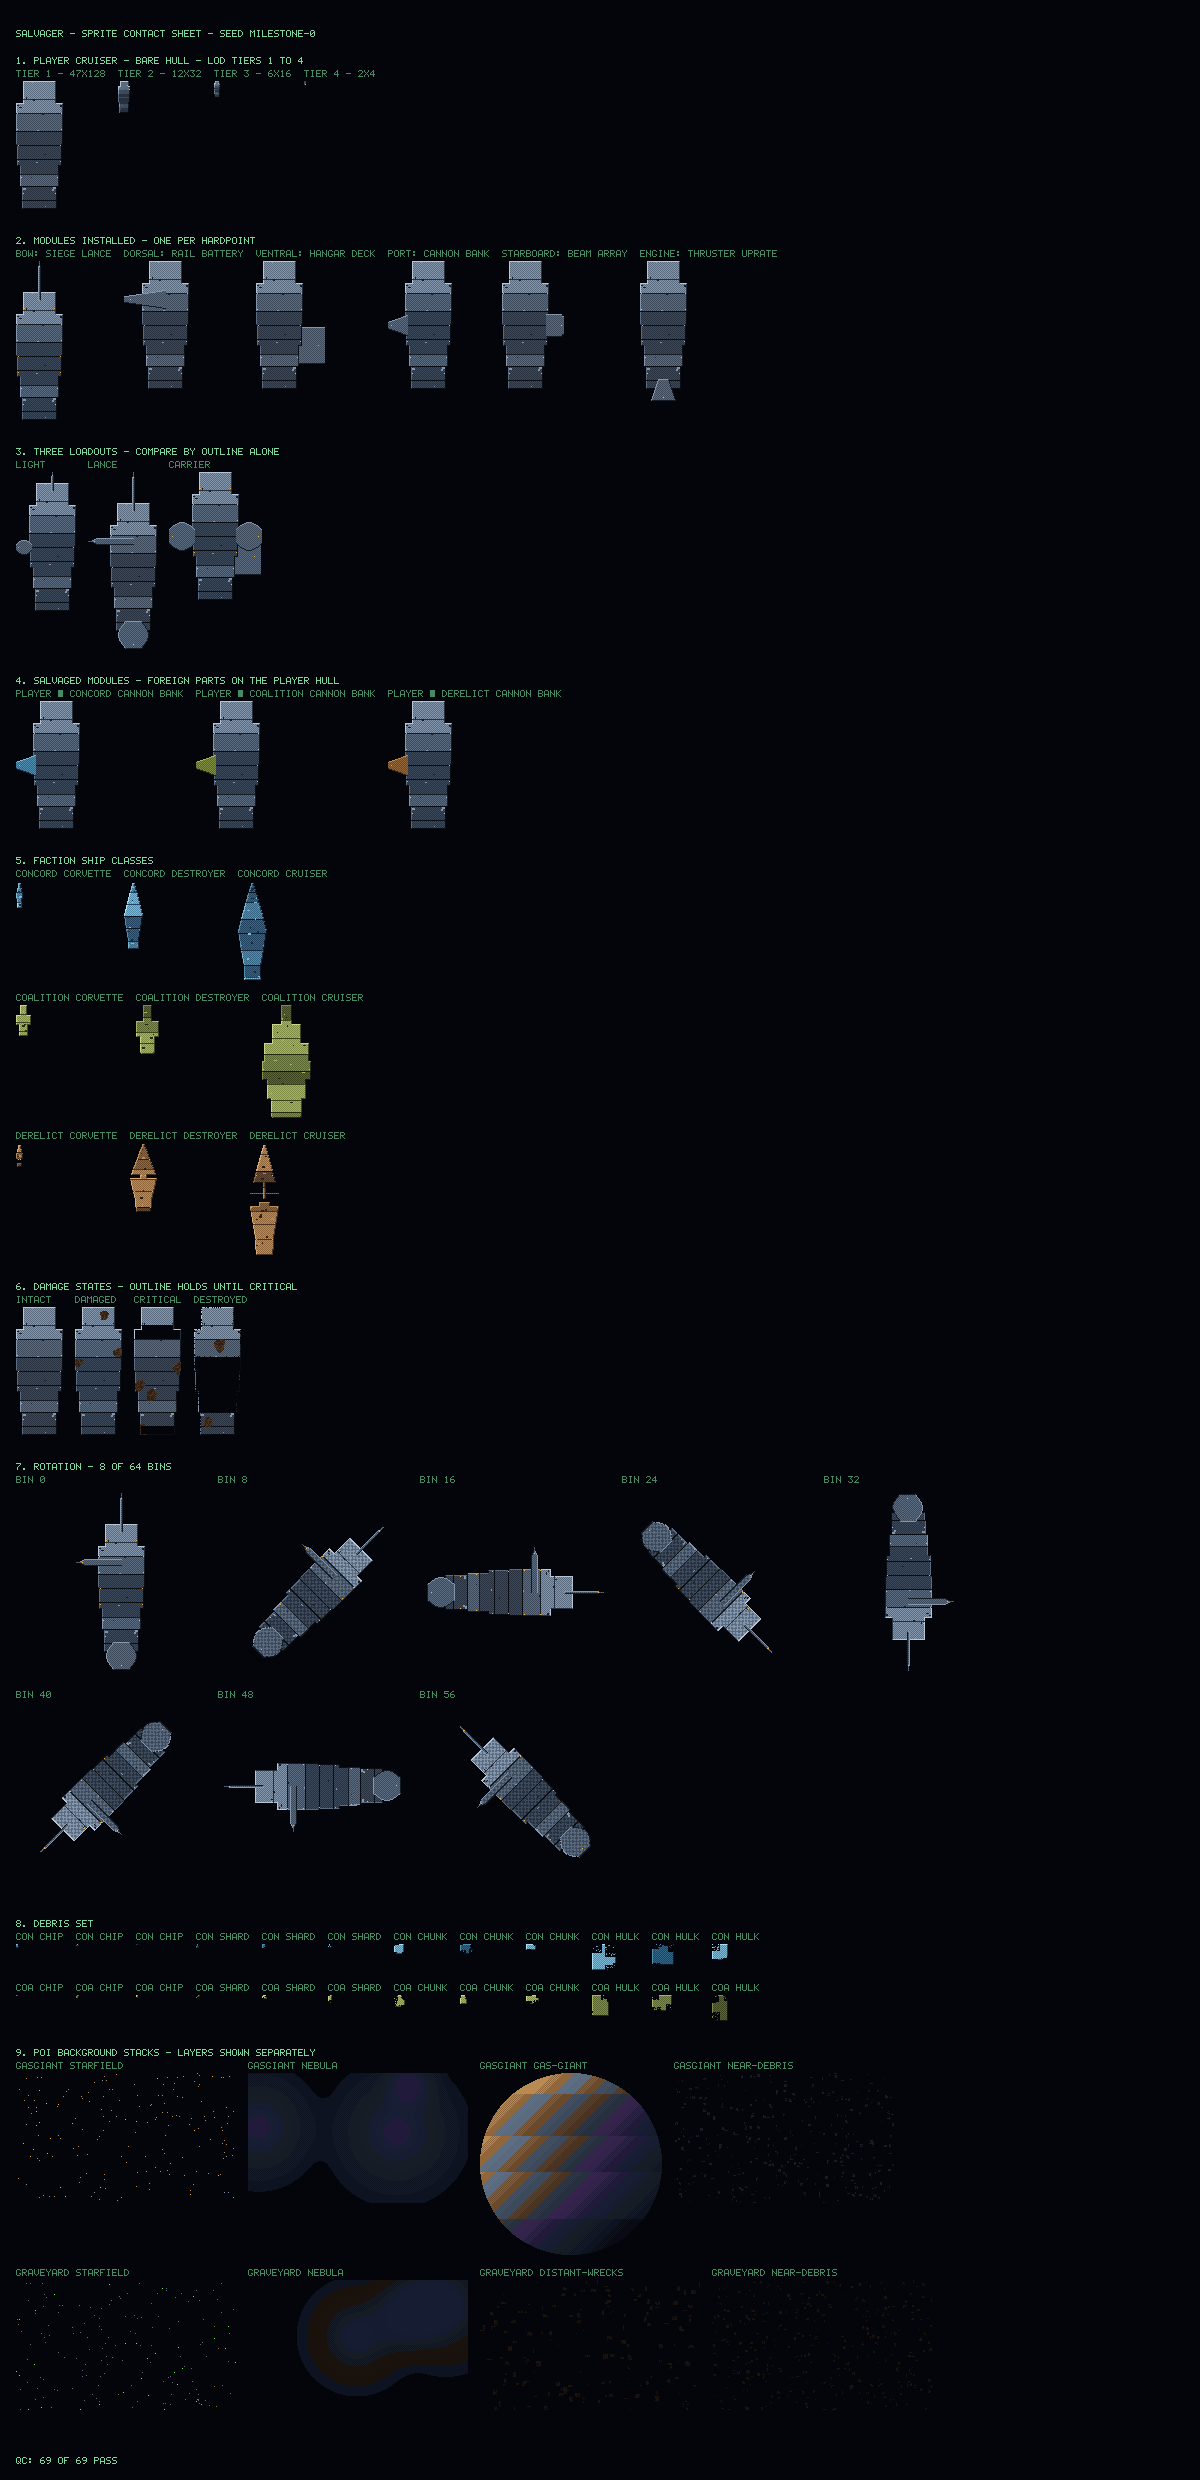
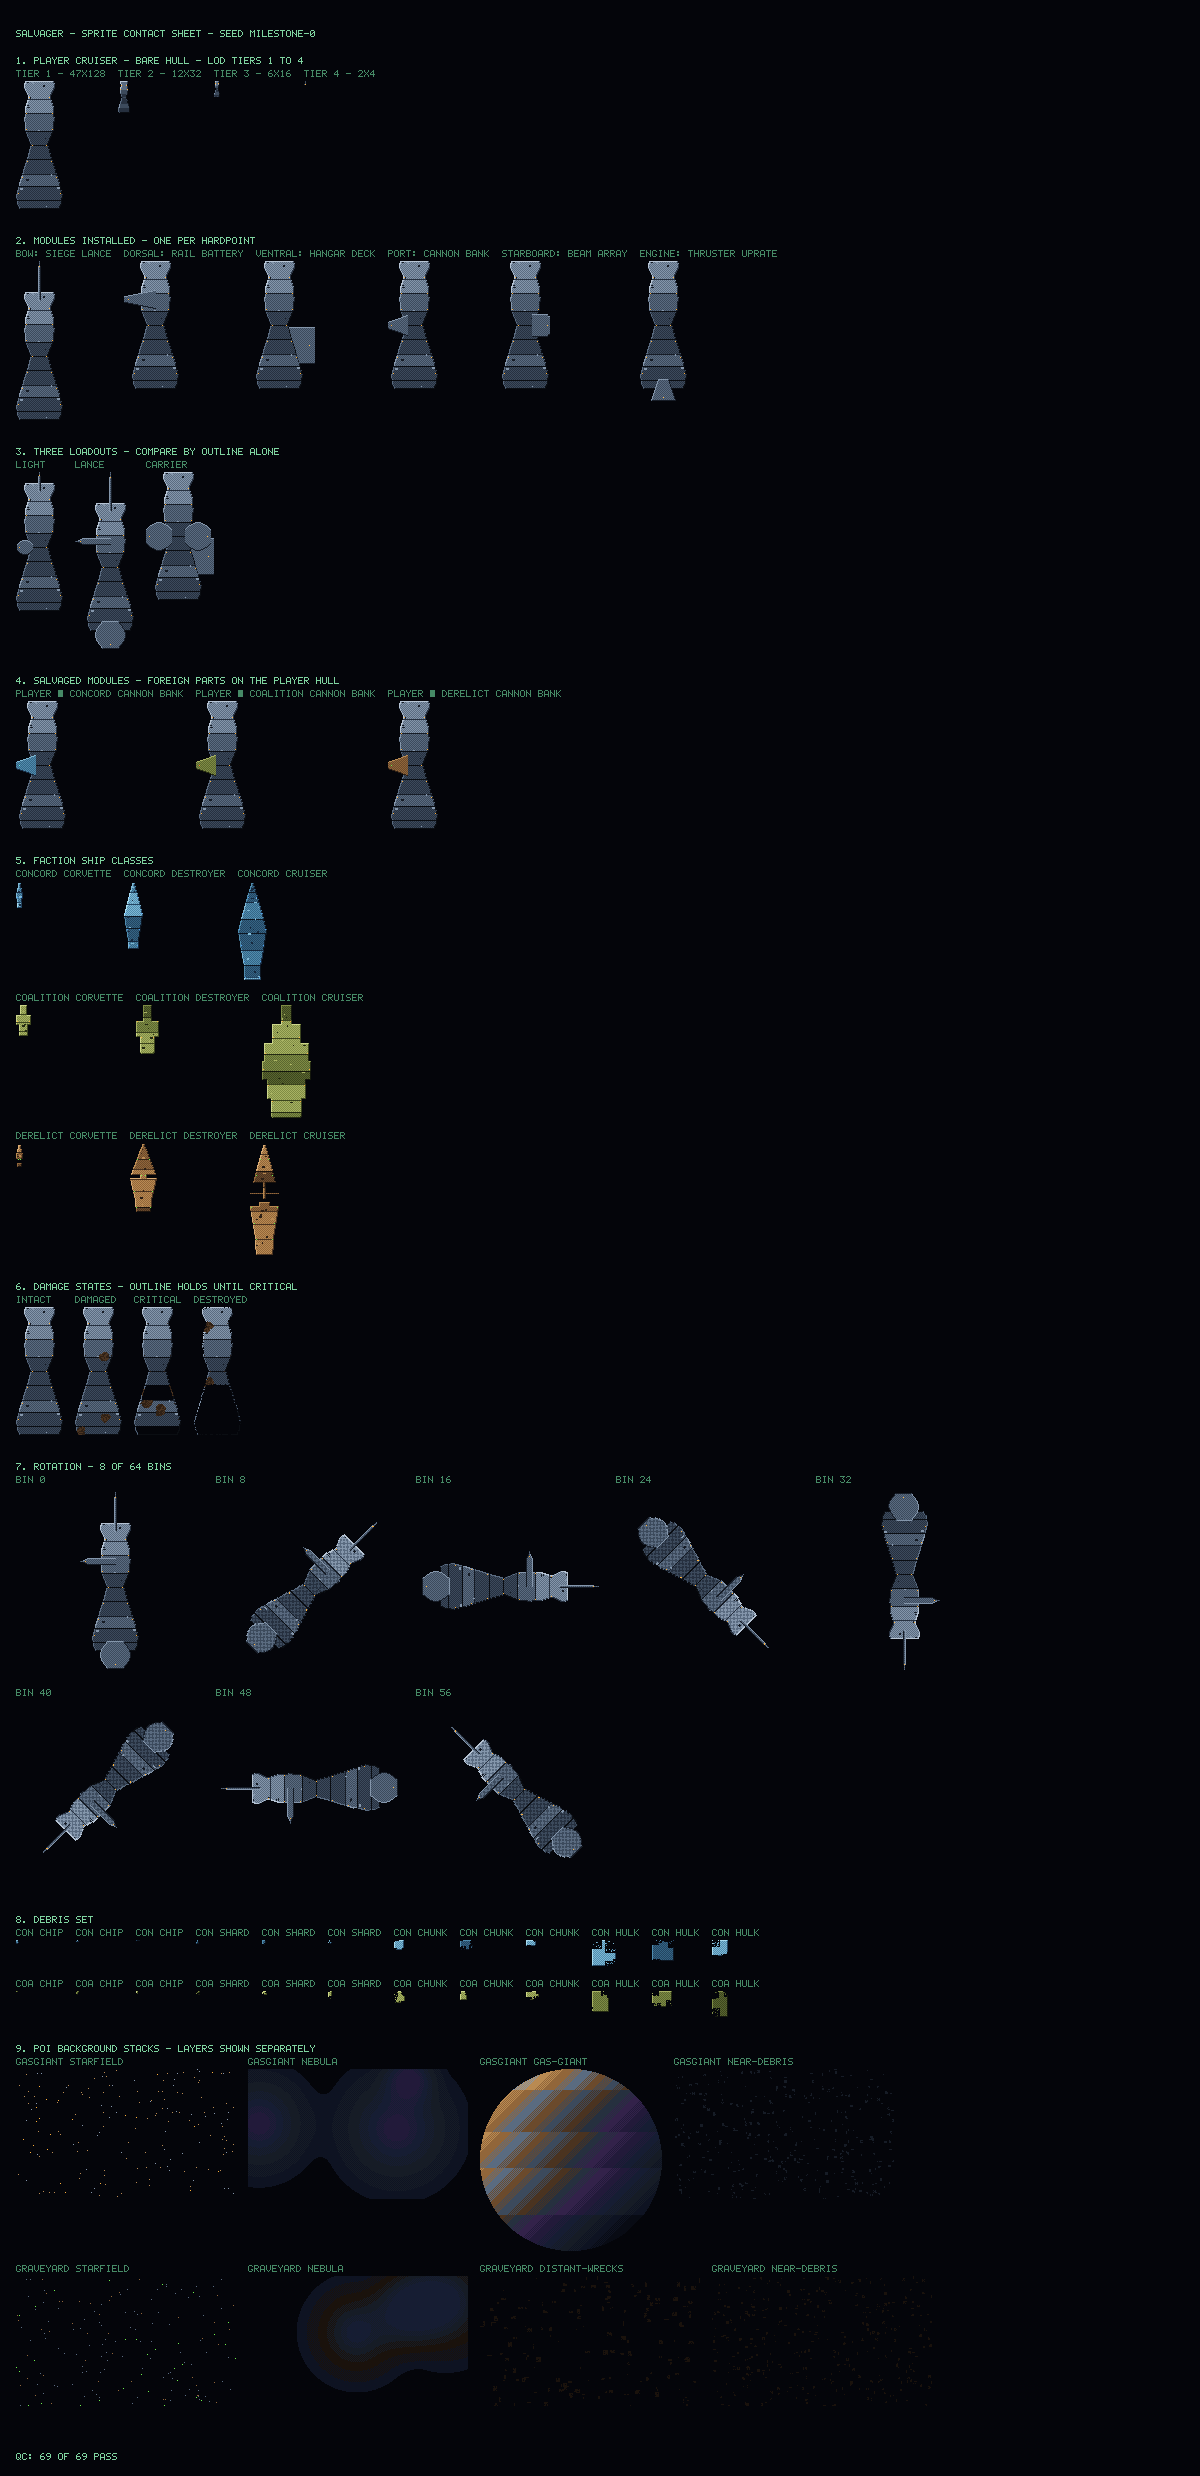
feat: give the player hull a salvager silhouette and shrink dorsal/ventral modules
playerCurve plateaued at max width from t=0.18-0.4, right across the dorsal
hardpoint (t=0.30) — the hull read as a slab, and dorsal/ventral modules had
to be widened to 40-46px just to clear that plateau by the required 8px.

Replace it with a control-polygon curve (PLAYER_HULL): a squared bow with a
pinch behind it (the salvage maw), a broad-but-not-widest forward hull
(dorsal), a hard waist pinch amidships (sponsons), and a heavy engine block
aft that is now the hull's actual widest point (ventral sits on the rise
back out of the waist, not at the peak). HARDPOINT_AT fractions are
untouched. The curve is piecewise-linear rather than smoothed or
slab-quantised — straight facets between control points carry the
low-poly, welded-panel identity on their own.

With the plateau gone, dorsal and ventral module widths in module.ts were
walked back down (sensor-mast 40->32, missile-cells 42->30, rail-battery
42->32, spinal-coil 46->36, salvage-tractor 38->34, cargo-expansion 40->34,
repair-bay 40->34, hangar-deck 46->36). Coalition's unchanged, beamier hull
is now the binding constraint on those widths, not player — verified by a
4-faction x 4-size x 300-seed sweep (4,800 hulls): hardpoint separation
minimum 4.0px, flat-run worst ratio 0.360, escaping-pixel minimum 19-83px
across all six hardpoints, zero QC failures.

diff --git a/src/gen/module.ts b/src/gen/module.ts
@@ -54,28 +54,33 @@ export const MODULE_CATALOGUE: readonly ModuleDef[] = [
 
   // Dorsal spine — heavy weapons, sensors.
   //
-  // Dorsal mounts near the hull's widest run (see HARDPOINT_AT.dorsal in
-  // hull.ts), and a beamy player-faction capital hull reaches a local
-  // half-width around 30px there. `width` is the reach for a lateral module
-  // (see `buildModule`), so these need to be wide enough to clear that —
-  // roughly 30px of hull plus an 8px margin — not merely wide enough to look
-  // proportionate next to a tier-1 flak cluster.
-  { id: 'sensor-mast',     name: 'SENSOR MAST',     hardpoint: 'dorsal',     archetype: 'boom',   tier: 1, length: 16, width: 40 },
-  { id: 'missile-cells',   name: 'MISSILE CELLS',   hardpoint: 'dorsal',     archetype: 'pod',    tier: 2, length: 18, width: 42 },
-  { id: 'rail-battery',    name: 'RAIL BATTERY',    hardpoint: 'dorsal',     archetype: 'barrel', tier: 2, length: 20, width: 42 },
-  { id: 'spinal-coil',     name: 'SPINAL COIL',     hardpoint: 'dorsal',     archetype: 'boom',   tier: 3, length: 18, width: 46 },
+  // Dorsal mounts near HARDPOINT_AT.dorsal in hull.ts (t=0.30). The player
+  // hull is pinched there deliberately (see the PLAYER_HULL control polygon
+  // in grammar/profile.ts) so it is no longer the hull that sets this width:
+  // a beamy coalition capital hull is now the binding case, reaching a local
+  // half-width around 25px at that station. `width` is the reach for a
+  // lateral module (see `buildModule`), so these stay just wide enough to
+  // clear the widest hull at that station with margin to spare, not wide
+  // enough to swallow the player hull whole the way the old flat-plateau
+  // profile forced them to be.
+  { id: 'sensor-mast',     name: 'SENSOR MAST',     hardpoint: 'dorsal',     archetype: 'boom',   tier: 1, length: 16, width: 32 },
+  { id: 'missile-cells',   name: 'MISSILE CELLS',   hardpoint: 'dorsal',     archetype: 'pod',    tier: 2, length: 18, width: 30 },
+  { id: 'rail-battery',    name: 'RAIL BATTERY',    hardpoint: 'dorsal',     archetype: 'barrel', tier: 2, length: 20, width: 32 },
+  { id: 'spinal-coil',     name: 'SPINAL COIL',     hardpoint: 'dorsal',     archetype: 'boom',   tier: 3, length: 18, width: 36 },
 
   // Ventral bay — utility, capacity.
   //
-  // Same widened-for-reach reasoning as dorsal: ventral is also a centreline
-  // mount (see buildModule's `lateral` comment), and a coalition capital hull
-  // can run a local half-width past 25px there. hangar-deck is bumped enough
-  // to stay the largest ventral module by a comfortable margin even after the
-  // other three grew to clear the hull.
-  { id: 'salvage-tractor', name: 'SALVAGE TRACTOR', hardpoint: 'ventral',    archetype: 'array',  tier: 1, length: 16, width: 38 },
-  { id: 'cargo-expansion', name: 'CARGO EXPANSION', hardpoint: 'ventral',    archetype: 'block',  tier: 2, length: 20, width: 40 },
-  { id: 'repair-bay',      name: 'REPAIR BAY',      hardpoint: 'ventral',    archetype: 'block',  tier: 2, length: 18, width: 40 },
-  { id: 'hangar-deck',     name: 'HANGAR DECK',     hardpoint: 'ventral',    archetype: 'block',  tier: 3, length: 38, width: 46 },
+  // Same reach reasoning as dorsal, and the same relief: HARDPOINT_AT.ventral
+  // (t=0.66) sits on the player hull just aft of the waist pinch, where the
+  // hull is still climbing back out toward the engine block rather than at
+  // its widest, so the coalition capital hull is again the binding case
+  // rather than player. hangar-deck keeps its long footprint (length=38) so
+  // it stays the largest ventral module by a wide margin even at a narrower
+  // width than before.
+  { id: 'salvage-tractor', name: 'SALVAGE TRACTOR', hardpoint: 'ventral',    archetype: 'array',  tier: 1, length: 16, width: 34 },
+  { id: 'cargo-expansion', name: 'CARGO EXPANSION', hardpoint: 'ventral',    archetype: 'block',  tier: 2, length: 20, width: 34 },
+  { id: 'repair-bay',      name: 'REPAIR BAY',      hardpoint: 'ventral',    archetype: 'block',  tier: 2, length: 18, width: 34 },
+  { id: 'hangar-deck',     name: 'HANGAR DECK',     hardpoint: 'ventral',    archetype: 'block',  tier: 3, length: 38, width: 36 },
 
   // Port sponson — broadside
   { id: 'flak-cluster',    name: 'FLAK CLUSTER',    hardpoint: 'port',       archetype: 'pod',    tier: 1, length: 16, width: 16 },

diff --git a/src/gen/grammar/profile.ts b/src/gen/grammar/profile.ts
@@ -64,12 +64,45 @@ function concordCurve(t: number): number {
   return nose * body * stern;
 }
 
-/** A working salvager: blunt bow, mass carried forward of amidships, narrowing aft. */
+/**
+ * A working salvager: broad squared bow with a central notch (the salvage
+ * maw wrecks get drawn into), a waist pinched in amidships, and a heavy
+ * engine block aft wider than anything ahead of it. This is the shape the
+ * hull is built around — an hourglass with a bow-heavy jaw and a stern-heavy
+ * drive section — rather than a taper (Concord) or a stack of constant-width
+ * runs (Coalition).
+ *
+ * Expressed as a control polygon rather than a formula: each pair is
+ * [fraction of length, half-width as a fraction of the peak], linearly
+ * interpolated between neighbours. Straight facets between control points is
+ * the point — it reads as milled panels bolted together, not a milled curve.
+ */
+const PLAYER_HULL: ReadonlyArray<readonly [number, number]> = [
+  [0.00, 0.62], // squared bow face — broad, not a taper to a point
+  [0.045, 0.66], // bow corner
+  [0.12, 0.46], // the notch: the maw pinches in right behind the bow face
+  [0.20, 0.60], // rises back out of the notch
+  [0.30, 0.64], // forward hull — broad, but not the hull's widest (dorsal sits here)
+  [0.40, 0.58],
+  [0.50, 0.36], // waist: pinched hard amidships (port/starboard sponsons sit here)
+  [0.58, 0.48],
+  [0.66, 0.62], // ventral bay, widening again aft of the waist
+  [0.80, 0.86],
+  [0.90, 1.00], // engine block — the widest point on the hull
+  [0.97, 0.94],
+  [1.00, 0.86], // stern face narrows slightly off the engine-block peak
+];
+
 function playerCurve(t: number): number {
-  const nose = Math.pow(Math.min(t / 0.18, 1), 0.45);
-  const body = 1 - 0.34 * Math.pow(Math.max(t - 0.4, 0) / 0.6, 1.4);
-  const stern = t > 0.9 ? 1 + 0.12 * ((t - 0.9) / 0.1) : 1;
-  return nose * body * stern;
+  for (let i = 0; i < PLAYER_HULL.length - 1; i++) {
+    const [t0, h0] = PLAYER_HULL[i]!;
+    const [t1, h1] = PLAYER_HULL[i + 1]!;
+    if (t <= t1 || i === PLAYER_HULL.length - 2) {
+      const f = t1 === t0 ? 0 : (t - t0) / (t1 - t0);
+      return h0 + (h1 - h0) * Math.min(1, Math.max(0, f));
+    }
+  }
+  return PLAYER_HULL[PLAYER_HULL.length - 1]![1];
 }
 
 /** Quantises a curve into slabs so the hull reads as welded rather than milled. */
@@ -108,7 +141,12 @@ export function buildProfile(spec: ProfileSpec): Profile {
         shape = concordCurve(t);
         break;
       case 'player':
-        shape = slabbed(playerCurve, Math.max(5, Math.round(length / 20)), t);
+        // No slab quantisation here — the control-polygon curve itself is
+        // already faceted (straight runs between control points), and its
+        // shape carries the player identity (notch, waist, engine block).
+        // Quantising on top would flatten those facets back into the wide,
+        // near-featureless plateaus this profile replaced.
+        shape = playerCurve(t);
         break;
     }
 
